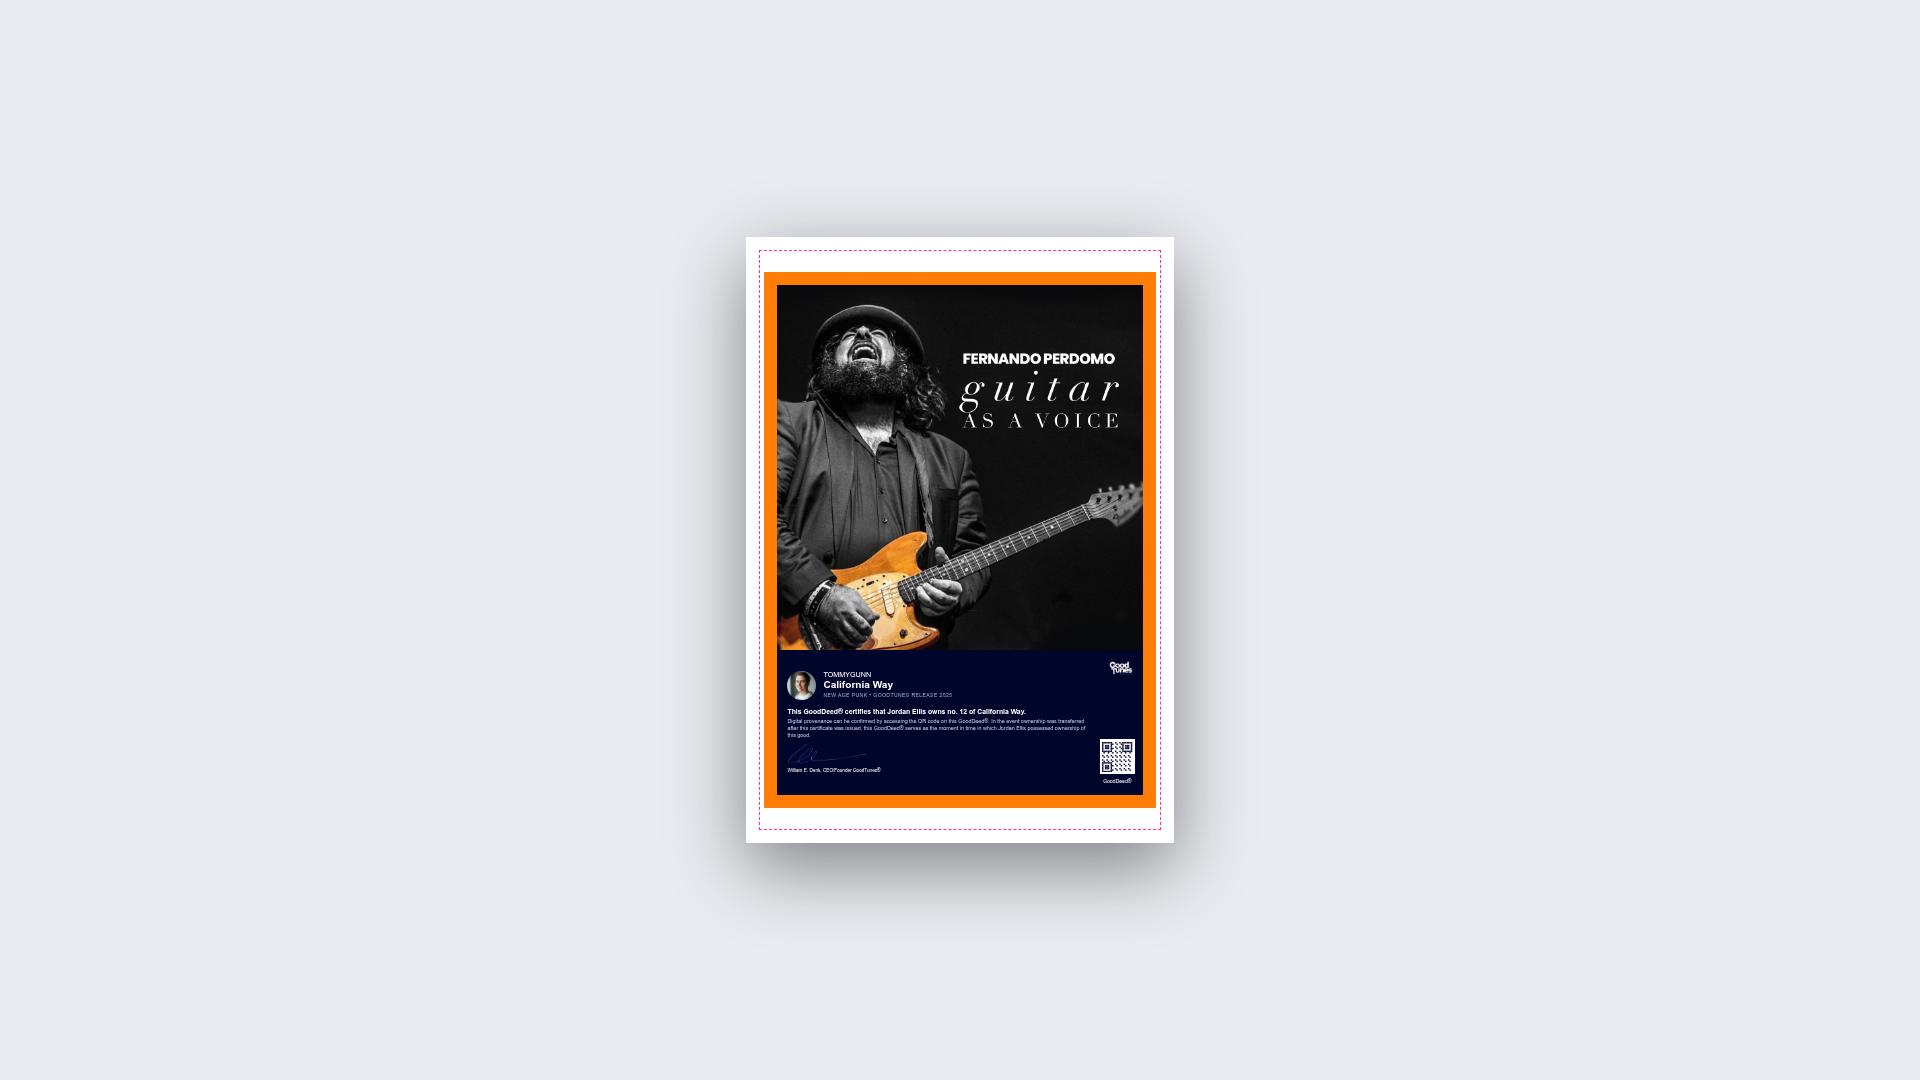
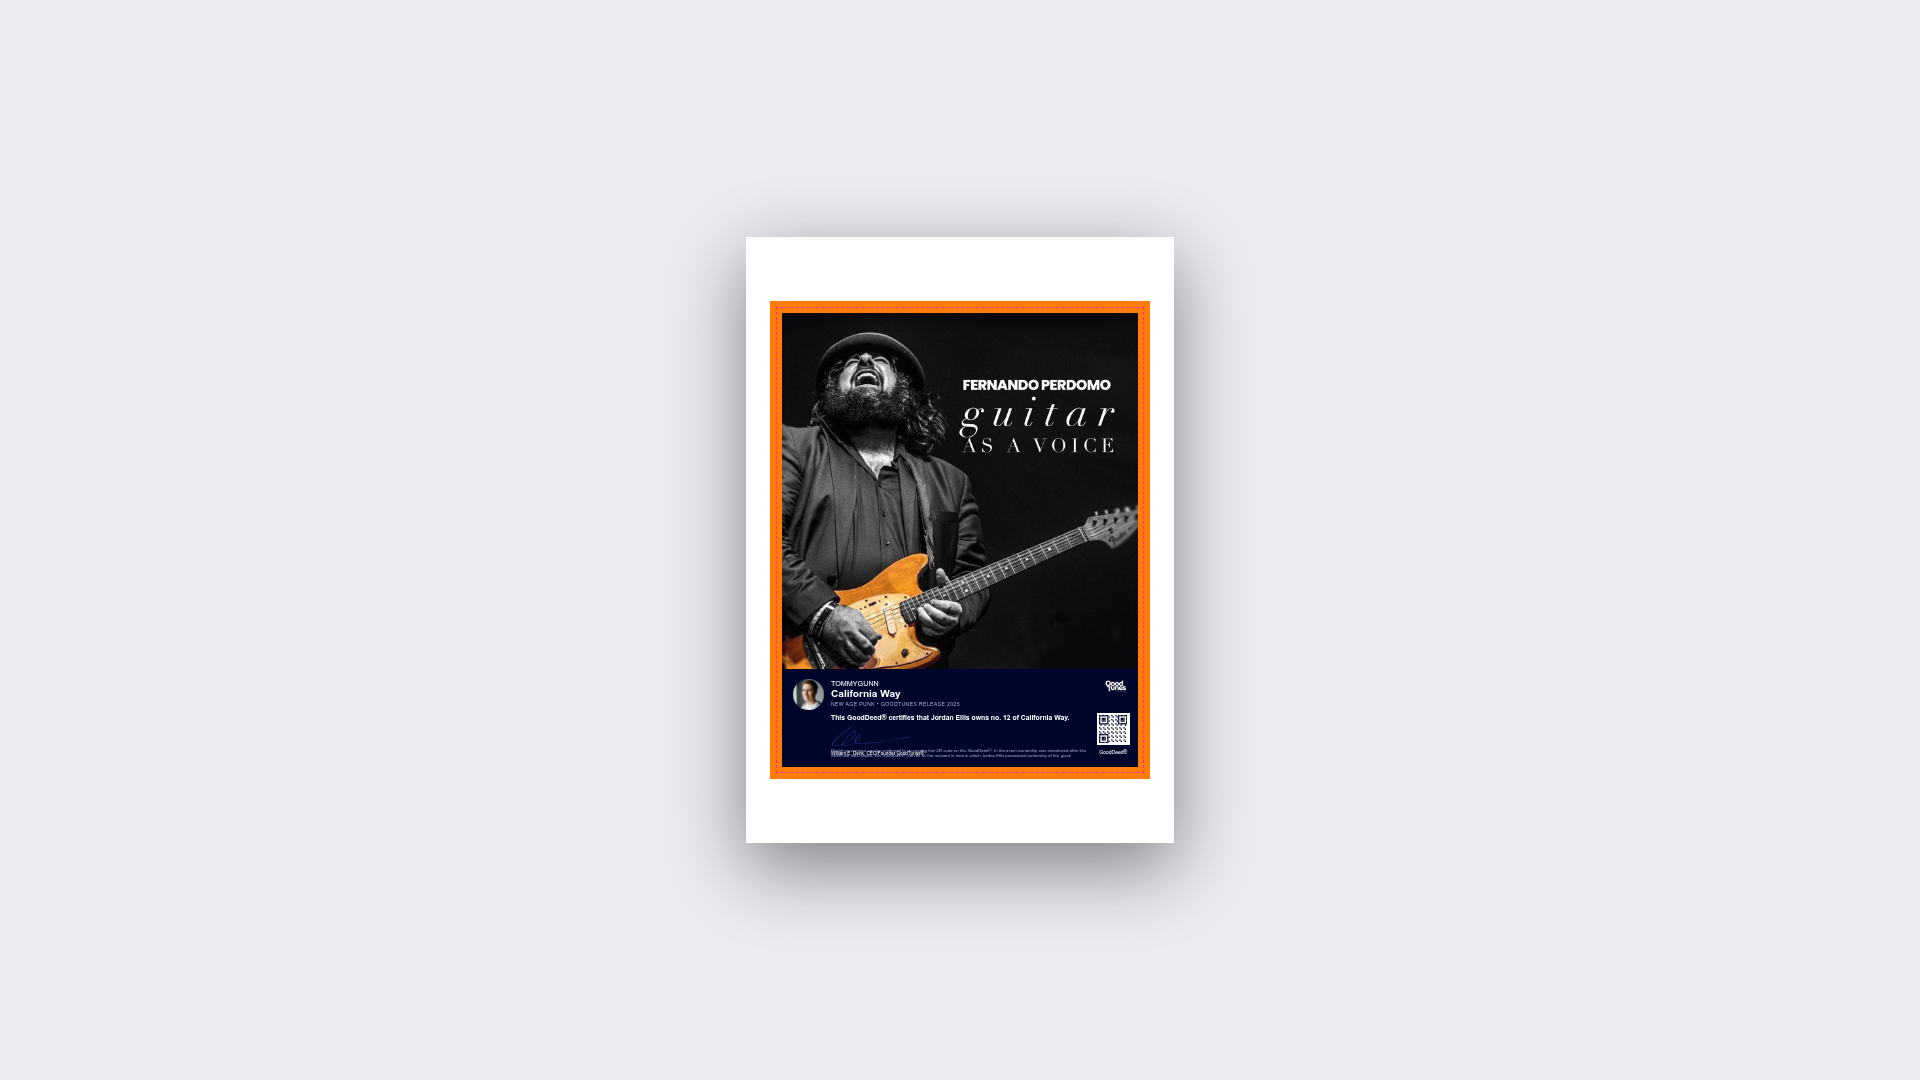
Adjust certificate border sizes for A4 prints
Modify the A4 border configurations in A4BorderDeep.tsx and A4BorderThin.tsx to adjust the outer and inner dimensions of the orange border relative to the mat opening, updating bleedIn and matBoxIn props. Also update A4Current.tsx to use layout and matBoxIn props.

Replit-Commit-Author: Agent
Replit-Commit-Session-Id: 05c2a2e8-5b06-4806-a9d5-d257ed0dfe21
Replit-Commit-Checkpoint-Type: full_checkpoint
Replit-Commit-Event-Id: 65b9c778-bf47-4bc5-9bdd-dd03ea531bb2
Replit-Commit-Screenshot-Url: https://storage.googleapis.com/screenshot-production-us-central1/5293185b-8e25-4d4f-b8b2-dc5494b9adc6/05c2a2e8-5b06-4806-a9d5-d257ed0dfe21/7Oktwk3
Replit-Helium-Checkpoint-Created: true

Changed region(s): [[0.375, 0.2444, 0.625, 0.7639]]

diff --git a/artifacts/mockup-sandbox/src/components/mockups/gooddeed-print/_CertPrint.tsx b/artifacts/mockup-sandbox/src/components/mockups/gooddeed-print/_CertPrint.tsx
@@ -38,11 +38,15 @@ const provenance =
   `ownership of this good.`;
 const subline = `${SAMPLE.genre} \u2022 GOODTUNES RELEASE ${SAMPLE.year}`;
 
-function dims(paper: Paper) {
+function dims(paper: Paper, matBoxIn?: [number, number]) {
   const W = paper === "a4" ? 595.28 : 612;
   const H = paper === "a4" ? 841.89 : 792;
-  const matW = W * (2250 / 2550);
-  const matH = H * (2850 / 3300);
+  // matBoxIn (inches) lets the caller pin the cert content box (art + band) to a
+  // FIXED real-world size centered on the sheet — used so the A4 cert keeps the
+  // original US 7.5:9.5 proportion (e.g. a 180x228mm mat opening) instead of
+  // stretching to A4's taller native mat.
+  const matW = matBoxIn ? matBoxIn[0] * 72 : W * (2250 / 2550);
+  const matH = matBoxIn ? matBoxIn[1] * 72 : H * (2850 / 3300);
   const matX = (W - matW) / 2;
   const matY = (H - matH) / 2;
   const artH = matW;
@@ -104,6 +108,8 @@ export function CertPrint({
   insetIn,
   bleedIn,
   frameRevealWin,
+  layout,
+  matBoxIn,
 }: {
   paper: Paper;
   frame: Frame;
@@ -113,10 +119,17 @@ export function CertPrint({
   // [widthIn, heightIn] of a real mat/frame window, drawn centered on the sheet
   // (NOT a uniform inset). e.g. [7.5, 9.5] = the 7.5"x9.5" mat opening.
   frameRevealWin?: [number, number];
+  // Which layout BRANCH to use (Letter footnote stack vs A4 centered stack),
+  // decoupled from the sheet size so an A4 sheet can carry the approved Letter
+  // 7.5:9.5 cert. Defaults to `paper`.
+  layout?: Paper;
+  // Pin the cert content box (art + band) to a fixed real-world size, centered
+  // on the sheet. See dims().
+  matBoxIn?: [number, number];
 }) {
   const artSrc = art ?? ART;
   const s = 0.72; // pt -> px display scale (same for both papers, so A4 reads taller/narrower)
-  const d = dims(paper);
+  const d = dims(paper, matBoxIn);
   const px = (pt: number) => pt * s;
 
   // Border treatments:
@@ -153,7 +166,7 @@ export function CertPrint({
   const leftColRightRel = qrColLeftRel - 14;
   const leftColW = leftColRightRel - leftColLeftRel;
 
-  const isA4 = paper === "a4";
+  const isA4 = (layout ?? paper) === "a4";
 
   // ── Right column (logo top, QR + caption bottom) — anchored to band edges on
   //    BOTH paper sizes, per the template.
@@ -389,6 +402,8 @@ export function CertStage({
   insetIn,
   bleedIn,
   frameRevealWin,
+  layout,
+  matBoxIn,
 }: {
   paper: Paper;
   frame: Frame;
@@ -396,13 +411,15 @@ export function CertStage({
   insetIn?: number;
   bleedIn?: number;
   frameRevealWin?: [number, number];
+  layout?: Paper;
+  matBoxIn?: [number, number];
 }) {
   return (
     <div
       className="min-h-screen flex items-center justify-center"
       style={{ background: "#E9EBF0", padding: 28 }}
     >
-      <CertPrint paper={paper} frame={frame} art={art} insetIn={insetIn} bleedIn={bleedIn} frameRevealWin={frameRevealWin} />
+      <CertPrint paper={paper} frame={frame} art={art} insetIn={insetIn} bleedIn={bleedIn} frameRevealWin={frameRevealWin} layout={layout} matBoxIn={matBoxIn} />
     </div>
   );
 }

diff --git a/artifacts/mockup-sandbox/src/components/mockups/gooddeed-print/A4BorderThin.tsx b/artifacts/mockup-sandbox/src/components/mockups/gooddeed-print/A4BorderThin.tsx
@@ -2,6 +2,20 @@ import { CertStage } from "./_CertPrint";
 
 const GUITAR = "/__mockup/images/album-guitar-as-a-voice.png";
 
+// A4 sheet, approved US 7.5:9.5 layout. Mat opening = 180x228mm centered (dashed).
+// Orange border STRADDLES the opening: 3mm OUTSIDE the dots + 3mm INSIDE = a 6mm
+// band. Artwork fills to the orange's inner edge (174x222mm). Orange outer edge
+// = 186x234mm (3mm bleed past the opening).
 export function A4BorderThin() {
-  return <CertStage paper="a4" frame="bordered" art={GUITAR} insetIn={0.125} bleedIn={0.125} frameRevealWin={[7.77, 11.19]} />;
+  return (
+    <CertStage
+      paper="a4"
+      layout="letter"
+      frame="bordered"
+      art={GUITAR}
+      bleedIn={0.236220}
+      matBoxIn={[6.850394, 8.740157]}
+      frameRevealWin={[7.086614, 8.976378]}
+    />
+  );
 }

diff --git a/artifacts/mockup-sandbox/src/components/mockups/gooddeed-print/A4BorderDeep.tsx b/artifacts/mockup-sandbox/src/components/mockups/gooddeed-print/A4BorderDeep.tsx
@@ -2,6 +2,20 @@ import { CertStage } from "./_CertPrint";
 
 const GUITAR = "/__mockup/images/album-guitar-as-a-voice.png";
 
+// A4 sheet, approved US 7.5:9.5 layout. Mat opening = 180x228mm centered (dashed).
+// Orange border STRADDLES the opening: 3mm OUTSIDE the dots + 6mm INSIDE = a 9mm
+// band. Artwork fills to the orange's inner edge (168x216mm). Orange outer edge
+// = 186x234mm (3mm bleed past the opening).
 export function A4BorderDeep() {
-  return <CertStage paper="a4" frame="bordered" art={GUITAR} insetIn={0.25} bleedIn={0.125} frameRevealWin={[7.77, 11.19]} />;
+  return (
+    <CertStage
+      paper="a4"
+      layout="letter"
+      frame="bordered"
+      art={GUITAR}
+      bleedIn={0.354331}
+      matBoxIn={[6.614173, 8.503937]}
+      frameRevealWin={[7.086614, 8.976378]}
+    />
+  );
 }

diff --git a/artifacts/mockup-sandbox/src/components/mockups/gooddeed-print/A4Current.tsx b/artifacts/mockup-sandbox/src/components/mockups/gooddeed-print/A4Current.tsx
@@ -2,6 +2,18 @@ import { CertStage } from "./_CertPrint";
 
 const GUITAR = "/__mockup/images/album-guitar-as-a-voice.png";
 
+// A4 sheet, but the cert keeps the approved US 7.5:9.5 layout (not stretched to
+// A4's taller mat). Mat opening = 180x228mm centered. Artwork = 180x228mm: flush
+// to the opening, 0mm bleed.
 export function A4Current() {
-  return <CertStage paper="a4" frame="navy" art={GUITAR} frameRevealWin={[7.77, 11.19]} />;
+  return (
+    <CertStage
+      paper="a4"
+      layout="letter"
+      frame="navy"
+      art={GUITAR}
+      matBoxIn={[7.0866, 8.9764]}
+      frameRevealWin={[7.0866, 8.9764]}
+    />
+  );
 }
